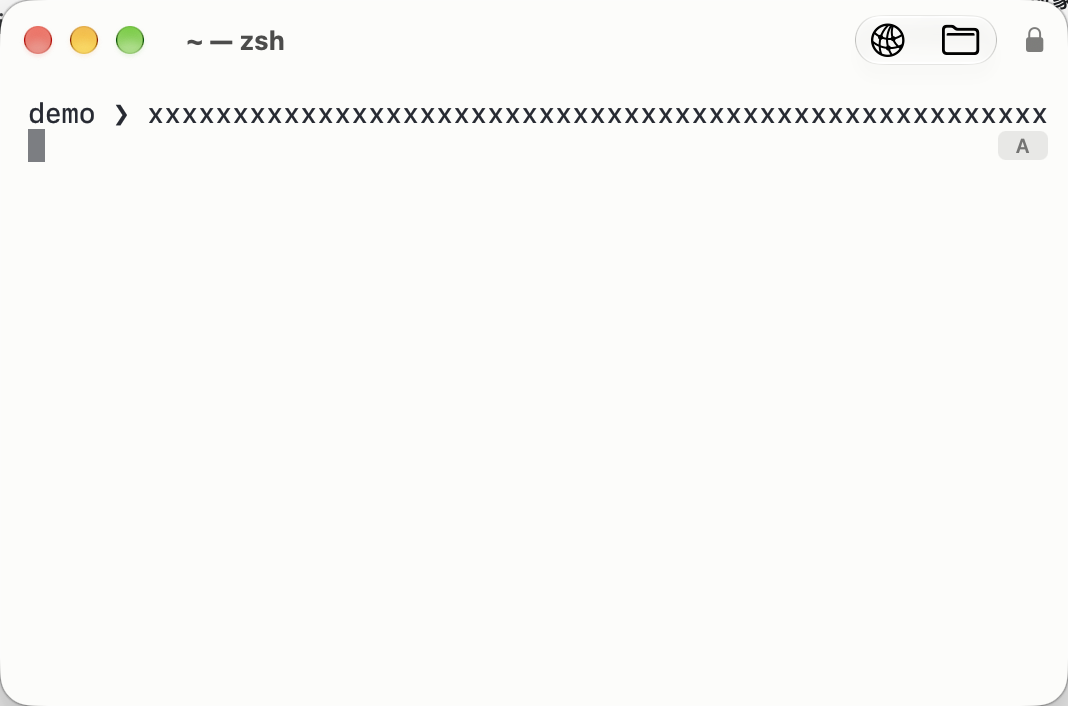
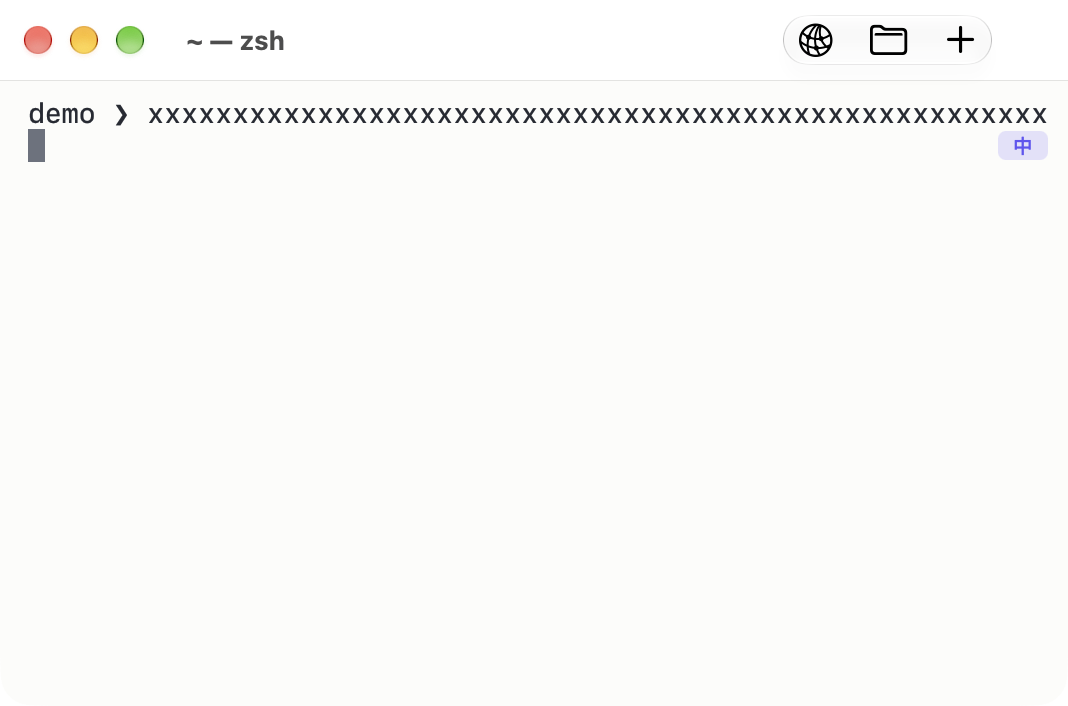
fix(ui): resolve the canvas badge's colours against the canvas
Review follow-ups. On a dark canvas under macOS Light the IME badge's
indigo, resolved against macOS, nearly vanished, so "中" and "A" differed
only by glyph. A badge beside the prompt now takes the canvas's own
appearance (darkAqua when the theme background is dark), so system
colours such as systemIndigo resolve to the variant that reads there;
direct input keeps the theme's foreground. The border follows the same
contrast snapshot as the text.

The canvas colours are read once per frame in afterFrame and handed to
both the directory hint and the badge. The tests build the colours from
the theme instead of applying it to the process-wide palette, which
renderers in other suites read. The user guide and the right-edge badge
screenshot follow the change (the machine's Pinyin source shows 中).

diff --git a/Corta/Pane/PaneInputSourceIndicator.swift b/Corta/Pane/PaneInputSourceIndicator.swift
@@ -76,7 +76,7 @@ import CortaTerminal
     }
 
     func update(grid: Grid, hasIntegration: Bool, promptRow: Int?, focused: Bool,
-        scrollOffset: Int, configuration: Configuration, cellSize: CGSize,
+        scrollOffset: Int, configuration: Configuration, canvas: CanvasTextColors, cellSize: CGSize,
         topInset: CGFloat, compositionRect: CGRect?, blockedRects: [CGRect] = []) {
         guard let source, focused,
             configuration.inputSourceIndicator != .off,
@@ -117,7 +117,7 @@ import CortaTerminal
         guard !blockedRects.contains(where: { $0.intersects(rect) }) else {
             if !view.isHidden { view.isHidden = true }
             return }
-        view.update(source: source, configuration: configuration, canvas: .current)
+        view.update(source: source, configuration: configuration, canvas: canvas)
         if view.frame != rect { view.frame = rect }
         if view.isHidden { view.isHidden = false }
     }
@@ -220,25 +220,32 @@ nonisolated struct InputSourceIndicatorPlacement {
     }
     private func applyColors() {
         guard let source else { return }
+        // On the canvas, system colours resolve against the canvas's darkness;
+        // in the toolbar the badge inherits the window's (#348).
+        let wanted = canvas?.appearance
+        if appearance?.name != wanted?.name { appearance = wanted }
+        effectiveAppearance.performAsCurrentDrawingAppearance { applyColors(source) }
+    }
+    private func applyColors(_ source: InputSourceState) {
         let custom = source.kind == .direct ? configuration.inputSourceDirectColor : configuration.inputSourceIMEColor
         // Default presentation stays quiet. Explicit custom backgrounds retain
         // their original contrast-aware behavior.
         if custom.isEmpty || source.kind == .unknown {
             let tinted = source.kind == .ime || source.kind == .nonLatinLayout
-            if let canvas {
-                // On the canvas: the theme's text over a faint fill, so a
-                // theme darker or lighter than macOS still reads (#348).
-                label.textColor = NSColor(cgColor: canvas.text(alpha: tinted ? 0.85 : 0.65, contrastAlpha: 1))
-                layer?.backgroundColor = tinted
-                    ? NSColor.systemIndigo.withAlphaComponent(0.12).cgColor
-                    : canvas.text(alpha: 0.08, contrastAlpha: 0.12)
+            if let canvas, !tinted {
+                // Direct input on the canvas: the theme's own text, faded, so
+                // a theme darker or lighter than macOS still reads (#348).
+                label.textColor = NSColor(cgColor: canvas.text(alpha: 0.65, contrastAlpha: 1))
+                layer?.backgroundColor = canvas.text(alpha: 0.08, contrastAlpha: 0.12)
             } else {
-                label.textColor = source.kind == .direct ? .secondaryLabelColor
-                    : tinted ? .systemIndigo : .secondaryLabelColor
+                // The indigo of an IME mode stays its cue; resolved against the
+                // canvas's appearance above, it is the variant that reads there.
+                label.textColor = tinted ? .systemIndigo : .secondaryLabelColor
                 layer?.backgroundColor = (tinted ? NSColor.systemIndigo : .secondaryLabelColor)
-                    .withAlphaComponent(0.08).cgColor
+                    .withAlphaComponent(tinted && canvas != nil ? 0.16 : 0.08).cgColor
             }
-            layer?.borderWidth = SystemAccessibility.increaseContrast ? 1 : 0
+            let increaseContrast = canvas?.increaseContrast ?? SystemAccessibility.increaseContrast
+            layer?.borderWidth = increaseContrast ? 1 : 0
             layer?.borderColor = label.textColor?.withAlphaComponent(0.4).cgColor
             return
         }
@@ -252,7 +259,7 @@ nonisolated struct InputSourceIndicatorPlacement {
         let luminance = 0.2126 * linear(rgb.redComponent) + 0.7152 * linear(rgb.greenComponent) + 0.0722 * linear(rgb.blueComponent)
         label.textColor = luminance > 0.179 ? .black : .white
         layer?.backgroundColor = background.cgColor
-        layer?.borderWidth = SystemAccessibility.increaseContrast ? 1 : 0.5
+        layer?.borderWidth = (canvas?.increaseContrast ?? SystemAccessibility.increaseContrast) ? 1 : 0.5
         layer?.borderColor = label.textColor?.withAlphaComponent(0.35).cgColor
     }
 }

diff --git a/CortaTests/CanvasOverlayColourTests.swift b/CortaTests/CanvasOverlayColourTests.swift
@@ -25,7 +25,9 @@ import Testing
 struct CanvasOverlayColourTests {
     /// A custom theme whose *light* variant is dark, under macOS Light: the
     /// case where the system label colour drew near-black on near-black.
-    private func applyDarkLightVariant() throws -> Theme.Variant {
+    /// Built from the theme directly, never applied to the process-wide
+    /// palette, which renderers in other suites read.
+    private func darkLightVariant() throws -> CanvasTextColors {
         let (configuration, unknown) = Configuration.parse(
             """
             theme = night
@@ -33,20 +35,20 @@ struct CanvasOverlayColourTests {
             theme.night.light.foreground = #e8e8e8
             """)
         #expect(unknown.isEmpty)
-        let theme = try #require(Theme.named("night", in: configuration))
-        let saved = TerminalColorPalette.activeVariant
-        TerminalColorPalette.apply(theme.variant(dark: false))
-        return saved
+        let variant = try #require(Theme.named("night", in: configuration)).variant(dark: false)
+        return CanvasTextColors(
+            foreground: variant.foreground, background: variant.background, increaseContrast: false)
     }
 
-    private func badge(placedOnCanvas: Bool) -> InputSourceIndicatorView {
+    private func badge(_ kind: InputSourceState.Kind, canvas: CanvasTextColors?) -> InputSourceIndicatorView {
         let view = InputSourceIndicatorView(frame: CGRect(x: 0, y: 0, width: 28, height: 16))
-        view.appearance = NSAppearance(named: .aqua)
+        let window = NSWindow(contentRect: view.frame, styleMask: [.titled], backing: .buffered, defer: false)
+        window.appearance = NSAppearance(named: .aqua)
+        window.contentView?.addSubview(view)
         let source = InputSourceState(
-            identifier: "com.apple.keylayout.ABC", name: "ABC", badge: "A", kind: .direct)
-        view.update(
-            source: source, configuration: Configuration(),
-            canvas: placedOnCanvas ? .current : nil)
+            identifier: kind == .direct ? "com.apple.keylayout.ABC" : "com.apple.inputmethod.SCIM.ITABC",
+            name: kind == .direct ? "ABC" : "Pinyin", badge: kind == .direct ? "A" : "中", kind: kind)
+        view.update(source: source, configuration: Configuration(), canvas: canvas)
         return view
     }
 
@@ -60,18 +62,23 @@ struct CanvasOverlayColourTests {
     }
 
     @Test func aBadgeBesideThePromptTakesTheThemesForeground() throws {
-        let saved = try applyDarkLightVariant()
-        defer { TerminalColorPalette.apply(saved) }
-        let text = try textColour(badge(placedOnCanvas: true))
+        let text = try textColour(badge(.direct, canvas: darkLightVariant()))
         // #e8e8e8, faded: light on the #101010 canvas, not the system's dark grey.
         #expect(text.redComponent > 0.85 && text.greenComponent > 0.85 && text.blueComponent > 0.85)
         #expect(text.alphaComponent >= 0.6)
     }
 
+    @Test func anIMEBadgeOnADarkCanvasKeepsAnIndigoThatReads() throws {
+        let view = badge(.ime, canvas: try darkLightVariant())
+        #expect(view.effectiveAppearance.bestMatch(from: [.aqua, .darkAqua]) == .darkAqua)
+        // Indigo still, the cue that a mode is on, in the dark variant the
+        // canvas's appearance resolves.
+        let text = try textColour(view)
+        #expect(text.blueComponent > text.greenComponent)
+    }
+
     @Test func aBadgeInTheToolbarKeepsTheSystemColour() throws {
-        let saved = try applyDarkLightVariant()
-        defer { TerminalColorPalette.apply(saved) }
-        let text = try textColour(badge(placedOnCanvas: false))
+        let text = try textColour(badge(.direct, canvas: nil))
         // Window chrome follows macOS: Light's secondary label is dark.
         #expect(text.redComponent < 0.5 && text.greenComponent < 0.5 && text.blueComponent < 0.5)
     }

diff --git a/Corta/Pane/ViewController.swift b/Corta/Pane/ViewController.swift
@@ -656,7 +656,9 @@ class ViewController: NSViewController, PaneSearchHost, PaneRemoteHost, PaneComm
         terminalView.refreshInputCompositionGeometry()
         let configuration = ConfigurationStore.shared.configuration
         splitController?.placeInputSourceIndicator(from: self, configuration: configuration)
-        shell.updateShellOverlay(grid: grid)
+        // Once per frame, for every overlay on the canvas.
+        let canvas = CanvasTextColors.current
+        shell.updateShellOverlay(grid: grid, canvas: canvas)
         pointer.dropSelectionIfRewritten(in: grid)
         if let inputMetadata, !terminalView.directPresentation.contains(.overlays) {
             let metrics = terminalRenderer.pointMetrics
@@ -664,7 +666,7 @@ class ViewController: NSViewController, PaneSearchHost, PaneRemoteHost, PaneComm
                 grid: grid, hasIntegration: inputMetadata.hasIntegration,
                 promptRow: inputMetadata.promptRow,
                 focused: focus.hasUserFocus && view.window?.firstResponder === terminalView,
-                scrollOffset: scrollOffset, configuration: configuration,
+                scrollOffset: scrollOffset, configuration: configuration, canvas: canvas,
                 cellSize: CGSize(width: metrics.cellWidth, height: metrics.cellHeight),
                 topInset: topInset, compositionRect: terminalView.inputCompositionRect,
                 blockedRects: terminalView.shellOverlay.occupiedRects + (search.bar.map { [$0.frame] } ?? []))

diff --git a/CortaTests/InputSourceIndicatorTests.swift b/CortaTests/InputSourceIndicatorTests.swift
@@ -63,7 +63,7 @@ import Testing
         func update(_ mode: Configuration.InputSourceIndicatorMode = .auto) {
             var config = Configuration(); config.inputSourceIndicator = mode
             indicator.update(grid: terminal.grid, hasIntegration: true, promptRow: 0, focused: true,
-                scrollOffset: 0, configuration: config, cellSize: CGSize(width: 8, height: 16),
+                scrollOffset: 0, configuration: config, canvas: .current, cellSize: CGSize(width: 8, height: 16),
                 topInset: 0, compositionRect: nil)
         }
         update(); #expect(indicator.view.isHidden)
@@ -182,7 +182,7 @@ import Testing
             config.inputSourceIndicator = mode
             config.inputSourceIndicatorPosition = position
             indicator.update(grid: terminal.grid, hasIntegration: integration, promptRow: prompt,
-                focused: focus, scrollOffset: scroll, configuration: config,
+                focused: focus, scrollOffset: scroll, configuration: config, canvas: .current,
                 cellSize: CGSize(width: 8, height: 16), topInset: 0, compositionRect: nil)
         }
         // On the grid, the badge steps aside for a running command, history

diff --git a/Corta/Pane/ShellOverlayView.swift b/Corta/Pane/ShellOverlayView.swift
@@ -70,13 +70,15 @@ final class ShellOverlayView: NSView {
         statuses.first { $0.rect.insetBy(dx: -3, dy: 0).contains(point) }?.description ?? ""
     }
 
+    /// - Parameter colors: the frame's canvas colours, read once for every
+    ///   overlay that frame draws.
     func showCompletion(_ state: DirectoryCompletion?, anchor: CGRect,
-        font: NSFont = .monospacedSystemFont(ofSize: 14, weight: .regular), baseline: CGFloat = 12) {
-        // Once per frame, not a lock per colour.
+        font: NSFont = .monospacedSystemFont(ofSize: 14, weight: .regular), baseline: CGFloat = 12,
+        colors: CanvasTextColors = .current) {
         let presentation = CompletionPresentation(
             state: state, anchor: anchor, bounds: bounds,
             font: font, baseline: baseline, composing: isInputComposing,
-            colors: .current)
+            colors: colors)
         guard lastCompletionPresentation != presentation else { return }
         lastCompletionPresentation = presentation
         guard !isInputComposing, let state, let suffix = state.previewSuffix, !suffix.isEmpty else {

diff --git a/Corta/Pane/CanvasTextColors.swift b/Corta/Pane/CanvasTextColors.swift
@@ -46,6 +46,18 @@ nonisolated struct CanvasTextColors: Equatable {
     /// The canvas itself, opaque: what an overlay covering output fills with.
     var backdrop: CGColor { Self.srgb(background, alpha: 1) }
 
+    /// Whether the canvas is dark, by its relative luminance — not whether
+    /// macOS is.
+    var isDark: Bool {
+        func linear(_ c: Float) -> Float { c <= 0.04045 ? c / 12.92 : pow((c + 0.055) / 1.055, 2.4) }
+        return 0.2126 * linear(background.x) + 0.7152 * linear(background.y) + 0.0722 * linear(background.z) <= 0.179
+    }
+
+    /// The appearance a system colour drawn on the canvas resolves against:
+    /// dark on a dark canvas whatever macOS is, so `systemIndigo` and the
+    /// label colours take the variant that reads there.
+    var appearance: NSAppearance? { NSAppearance(named: isDark ? .darkAqua : .aqua) }
+
     private static func srgb(_ color: SIMD4<Float>, alpha: CGFloat) -> CGColor {
         CGColor(srgbRed: CGFloat(color.x), green: CGFloat(color.y), blue: CGFloat(color.z), alpha: alpha)
     }

diff --git a/Corta/Pane/PaneShellIntegration.swift b/Corta/Pane/PaneShellIntegration.swift
@@ -404,7 +404,7 @@ final class PaneShellIntegration: NSObject, NSMenuItemValidation {
 
     // MARK: - Status marks and directory completion
 
-    func updateShellOverlay(grid: Grid) {
+    func updateShellOverlay(grid: Grid, canvas: CanvasTextColors) {
         guard let terminalView, let terminalRenderer else { return }
         let overlay = terminalView.shellOverlay
         if overlay.frame != terminalView.bounds { overlay.frame = terminalView.bounds }
@@ -443,7 +443,7 @@ final class PaneShellIntegration: NSObject, NSMenuItemValidation {
             font: TerminalFont.primary(
                 ofSize: host?.fontSize ?? ViewController.defaultFontSize, family: host?.fontFamily)
                 as NSFont,
-            baseline: metrics.baselineOffset)
+            baseline: metrics.baselineOffset, colors: canvas)
     }
 
     func handleDirectoryCompletionKey(_ event: NSEvent) -> Bool {

diff --git a/docs/USER-GUIDE.md b/docs/USER-GUIDE.md
@@ -141,8 +141,10 @@ Settings ▸ Keyboard & Mouse ▸ Input Source Indicator chooses **Automatically
 (default), **Always in focused pane**, or **Off**. The default only
 enables the indicator for users with an enabled non-Latin keyboard layout or
 an IME; Latin-only keyboard setups remain uncluttered. Switching back to a Latin
-layout keeps a quiet gray `A` on a faint gray background. Non-Latin layouts
-and built-in IME modes use a soft indigo tint; unknown IME modes use gray. In the
+layout keeps a quiet `A` on a faint background — gray in the toolbar, the
+theme's own text colour beside the prompt. Non-Latin layouts and built-in IME
+modes use a soft indigo tint; unknown IME modes use gray. Beside the prompt,
+colours follow the terminal theme's darkness rather than macOS's. In the
 toolbar the badge stays while a program runs — Claude Code, an editor — since
 it covers no output. At the right edge of the command line, shell integration
 hides it during command execution in **Automatically** mode. **Always**
